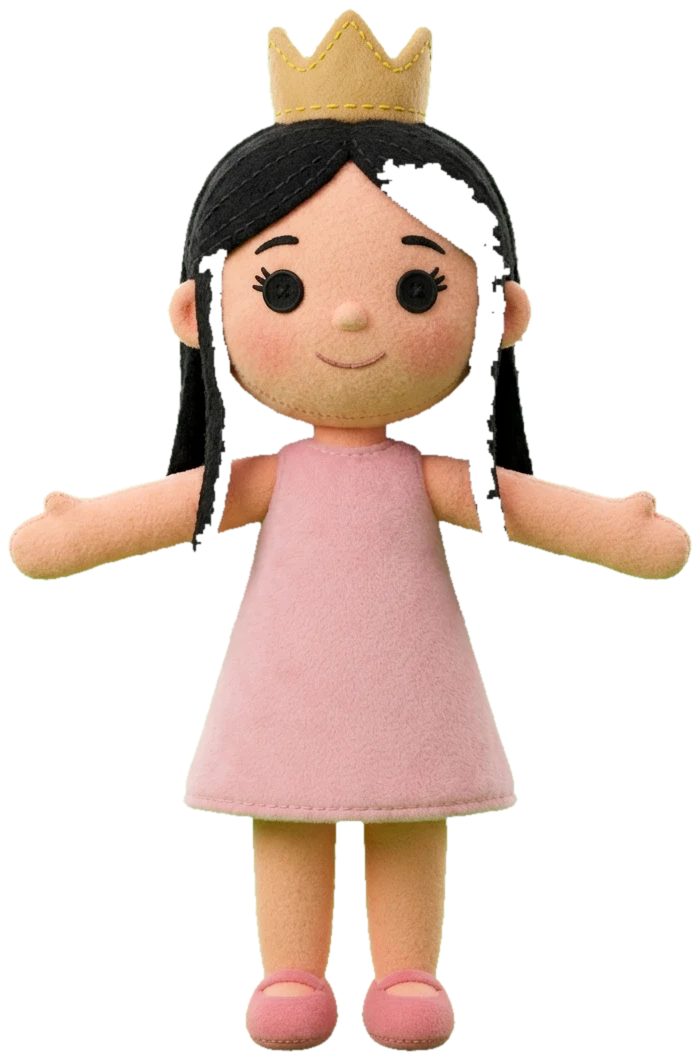
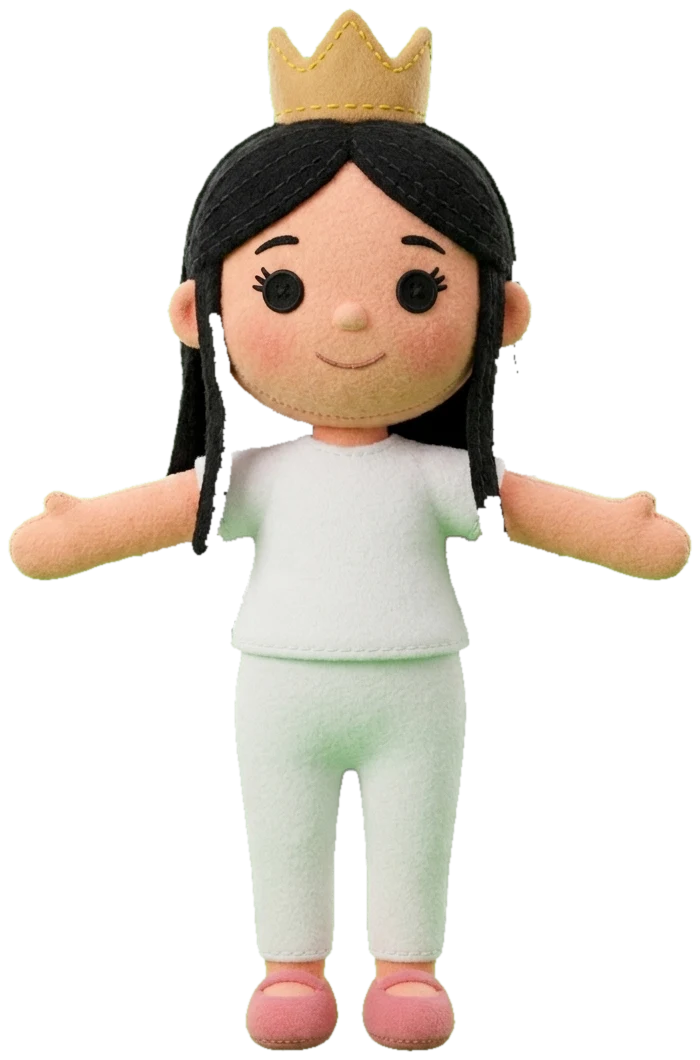
Atelier v11: clean boys' belts (drawn blue, cut by colour); dolls arrive in a white top and leggings

Changed region(s): [[0.27, 0.1557, 0.78, 0.934], [0.27, 0.2179, 0.33, 0.3425], [0.24, 0.3425, 0.27, 0.3736]]

diff --git a/atelier/game.js b/atelier/game.js
@@ -14,7 +14,7 @@
    Tiers: 1 (to 6) felt, whole cm · 2 (7–10) nature-tech, half cm · 3 (11+) nature-tech, mm and π. */
 (function () {
   'use strict';
-  const VERSION = 10;
+  const VERSION = 11;
   const $ = (s, r) => (r || document).querySelector(s), el = (t, c, txt) => { const e = document.createElement(t); if (c) e.className = c; if (txt != null) e.textContent = txt; return e; };
   const NS = 'http://www.w3.org/2000/svg', sv = (t, a) => { const e = document.createElementNS(NS, t); for (const k in a || {}) e.setAttribute(k, a[k]); return e; };
   const wait = ms => new Promise(r => setTimeout(r, ms)), clamp = (v, a, b) => Math.max(a, Math.min(b, v)), pick = a => a[Math.floor(Math.random() * a.length)];

diff --git a/atelier/index.html b/atelier/index.html
@@ -69,6 +69,6 @@ html,body{height:100%} body{margin:0; background:var(--bg); color:var(--ink); fo
   <span class="ver" id="ver"></span>
 </div></div>
 <script src="strings.js?v=11"></script>
-<script src="game.js?v=33"></script>
+<script src="game.js?v=34"></script>
 </body>
 </html>

diff --git a/tools/filmed/atelier/dress/layer.py b/tools/filmed/atelier/dress/layer.py
@@ -4,6 +4,8 @@ from PIL import Image
 from scipy import ndimage
 SRC = '/private/tmp/claude-501/-Users-yonieyal-castle-chess/d9987f28-f2c5-4381-b2fb-abb4d8144d7e/scratchpad/atelier/assets'
 def layer(look, client, garment):
+    import os
+    if os.path.exists(f'{look}_{client}_{garment}Blue.png'): return layer_blue(look, client, garment)
     a = np.asarray(Image.open(f'{SRC}/{look}_{client}.png').convert('RGB')).astype(np.float32) / 255
     b = np.asarray(Image.open(f'{look}_{client}_{garment}.png').convert('RGB').resize((a.shape[1], a.shape[0]), Image.LANCZOS)).astype(np.float32) / 255
     # best small shift of b onto a (the edit can nudge the figure a few pixels)
@@ -32,5 +34,15 @@ def layer(look, client, garment):
     rgba = np.dstack([shade, shade, shade, alpha]); out = Image.fromarray((rgba * 255).astype(np.uint8), 'RGBA')
     ys, xs = np.where(alpha > 0.05); box = (xs.min(), ys.min(), xs.max() + 1, ys.max() + 1)
     return out, box, best[1:], a.shape
+def layer_blue(look, client, garment):   # a garment drawn pure blue: cut by colour (no fur or cloth on any client is that blue), shading = its brightness
+    a = np.asarray(Image.open(f'{SRC}/{look}_{client}.png').convert('RGB')).astype(np.float32) / 255
+    b = np.asarray(Image.open(f'{look}_{client}_{garment}Blue.png').convert('RGB').resize((a.shape[1], a.shape[0]), Image.LANCZOS)).astype(np.float32) / 255
+    blue = (b[..., 2] > 0.3) & (b[..., 2] - np.maximum(b[..., 0], b[..., 1]) > 0.12)
+    m = ndimage.binary_opening(blue, iterations=1); m = ndimage.binary_closing(m, structure=np.ones((3, 9)), iterations=3)
+    lab, n = ndimage.label(m); sizes = ndimage.sum(m, lab, range(1, n + 1)); m = np.isin(lab, [i + 1 for i, s in enumerate(sizes) if s > sizes.max() * 0.05]); m = ndimage.binary_fill_holes(m)
+    alpha = ndimage.gaussian_filter(m.astype(np.float32), 1.0); alpha = np.clip((alpha - 0.15) / 0.7, 0, 1)
+    shade = b.max(2); shade = np.clip(shade / np.percentile(shade[m], 96), 0, 1)
+    rgba = np.dstack([shade, shade, shade, alpha]); out = Image.fromarray((rgba * 255).astype(np.uint8))
+    ys, xs = np.where(alpha > 0.05); return out, (xs.min(), ys.min(), xs.max() + 1, ys.max() + 1), (0, 0), a.shape
 if __name__ == '__main__':
     look, client, garment = sys.argv[1:4]; out, box, shift, shp = layer(look, client, garment); out.save(f'L_{look}_{client}_{garment}.png'); print(look, client, garment, 'box', box, 'shift', shift)

diff --git a/tools/filmed/atelier/dress/edit.py b/tools/filmed/atelier/dress/edit.py
@@ -10,15 +10,17 @@ G = {
  'belt': 'a plain pure-white fabric belt with a small gold buckle, worn snugly round her waist over her clothes',
  'hat': 'a plain pure-white fabric beret hat sitting on top of the head',
  'pants': 'a pair of plain pure-white fabric long trousers, from the waist down to just above the feet, both legs covered, with a neat waistband at the waist, worn like a boy wears trousers (the feet, arms, chest and tail stay uncovered)',
+ 'beltBlue': 'a plain pure-blue (#0000FF) fabric belt with a small buckle made of the same blue fabric, worn snugly round the waist on top of the trousers waistband, the whole belt the same flat bright blue',
  'shirt': 'a plain pure-white fabric short-sleeved shirt with a round neck, covering the chest and tummy down to the waist, worn like a boy wears a T-shirt (the arms below the short sleeves, the legs and the tail stay uncovered; any scarf stays on top)',
 }
 LOOK = {'felt': 'made of the same soft felt and stitching as the character', 'nature': 'made of soft cotton in the same clean 3D animated-film render as the character'}
 def run(look, client, garment):
     out = pathlib.Path(f'{look}_{client}_{garment}.png')
     if out.exists(): return 'cached'
-    img = (SRC / f'{look}_{client}.png').read_bytes()
+    # a *Blue garment is drawn in pure blue on the client already wearing its pants (from this folder), so layer.py can cut it out by colour
+    img = (pathlib.Path(f'{look}_{client}_pants.png') if garment.endswith('Blue') else SRC / f'{look}_{client}.png').read_bytes()
     who = 'character'
-    prompt = (f'Edit this image: dress the {who} in {G[garment]}, {LOOK[look]}. The new garment is pure white with soft shading and folds, no pattern, no colour. '
+    prompt = (f'Edit this image: dress the {who} in {G[garment]}, {LOOK[look]}. The new garment is ' + ('pure bright blue' if garment.endswith('Blue') else 'pure white, no colour') + ' with soft shading and folds, no pattern. '
               'Keep everything else exactly the same: the same character, face, hair, pose, arms, proportions, colours and lighting, the same framing and size in the frame, '
               'and the same completely flat pure green background. Change nothing except adding the garment. No text.')
     client_ = genai.Client()

diff --git a/tools/filmed/atelier/dress/rebase.py b/tools/filmed/atelier/dress/rebase.py
@@ -1,0 +1,16 @@
+# swap a client's base picture (same pose, new base clothes) without redoing its garment layers: the crop box is rebuilt from the
+# ORIGINAL picture and its garment edits exactly as pack3 builds it, then the new picture is keyed and cut on that same box, so every
+# existing g_<client>_<garment>.webp still lands where it did. usage: python3 rebase.py <look> <client> <new.png> <garment,...>
+import sys, json, numpy as np
+from PIL import Image
+import pack3_core as P   # key_rgba, anchors, layer, bbox, SRC, OUT (shared with pack3)
+look, client, newp, gs = sys.argv[1], sys.argv[2], sys.argv[3], sys.argv[4].split(',')
+cl = P.key_rgba(Image.open(f'{P.SRC}/{look}_{client}.png')); box = P.bbox(np.asarray(cl.getchannel('A')))
+for g in gs:
+    lay = P.layer(look, client, g)[0]; bb = P.bbox(np.asarray(lay.getchannel('A')))
+    box = [min(box[0], bb[0]), min(box[1], bb[1]), max(box[2], bb[2]), max(box[3], bb[3])]
+pad = 8; box = [max(0, box[0] - pad), max(0, box[1] - pad), min(cl.width, box[2] + pad), min(cl.height, box[3] + pad)]
+crop = cl.crop(box); k = min(700 / crop.width, 1100 / crop.height, 1.0); size = (round(crop.width * k), round(crop.height * k))
+new = P.key_rgba(Image.open(newp)).crop(box).resize(size, Image.LANCZOS); new.save(f'{P.OUT}/{look}/{client}.webp', 'WEBP', quality=88)
+meta = json.load(open(f'{P.OUT}/{look}/meta.json')); m = {kk: float(v) for kk, v in P.anchors(new).items()}; m['g'] = meta[client]['g']; meta[client] = m
+json.dump(meta, open(f'{P.OUT}/{look}/meta.json', 'w')); print(look, client, 'rebased on', box, size)

diff --git a/tools/filmed/atelier/dress/pack3.py b/tools/filmed/atelier/dress/pack3.py
@@ -1,16 +1,8 @@
 # v3 pack: client (keyed) + its garment layers on one shared crop, so a layer drawn over the client lands exactly; garment boxes go to meta
 import sys, json, numpy as np, subprocess, os
 from PIL import Image
-sys.path.insert(0, '/private/tmp/claude-501/-Users-yonieyal-castle-chess/d9987f28-f2c5-4381-b2fb-abb4d8144d7e/scratchpad/atelier/assets')
-import importlib.util
-spec = importlib.util.spec_from_file_location('pk', '/private/tmp/claude-501/-Users-yonieyal-castle-chess/d9987f28-f2c5-4381-b2fb-abb4d8144d7e/scratchpad/atelier/assets/pack.py')
-src = open(spec.origin).read().split("import sys\nfor look in")[0]; ns = {}; exec(src, ns); key_rgba = ns['key_rgba']
-from layer import layer
-SRC = '/private/tmp/claude-501/-Users-yonieyal-castle-chess/d9987f28-f2c5-4381-b2fb-abb4d8144d7e/scratchpad/atelier/assets'
-OUT = '/Users/yonieyal/kingdom-quest/atelier/assets'
+from pack3_core import key_rgba, layer, SRC, OUT, bbox, ns
 GS = {'felt': ['skirt', 'belt'], 'nature': ['circleSkirt', 'belt', 'hat']}
-def bbox(a, thr=20):
-    ys, xs = np.where(a > thr); return [xs.min(), ys.min(), xs.max() + 1, ys.max() + 1]
 # usage: pack3.py                         every client, then the props
 #        pack3.py <look> <client,...> <garment,...>   only those clients (e.g. felt fox,teddy skirt,belt,pants,shirt), no props
 ONLY = sys.argv[1:4] if len(sys.argv) >= 4 else None

diff --git a/tools/filmed/atelier/dress/pack3_core.py b/tools/filmed/atelier/dress/pack3_core.py
@@ -1,0 +1,9 @@
+# shared by pack3.py and rebase.py: the chroma key and body anchors (from ../assets/pack.py), the garment layer, the paths
+import os, numpy as np
+HERE = os.path.dirname(os.path.abspath(__file__))
+src = open(os.path.join(HERE, '..', 'assets', 'pack.py')).read().split("import sys\nfor look in")[0]; ns = {}; exec(src, ns); key_rgba = ns['key_rgba']; anchors = ns['anchors']
+from layer import layer
+SRC = '/private/tmp/claude-501/-Users-yonieyal-castle-chess/d9987f28-f2c5-4381-b2fb-abb4d8144d7e/scratchpad/atelier/assets'
+OUT = '/Users/yonieyal/kingdom-quest/atelier/assets'
+def bbox(a, thr=20):
+    ys, xs = np.where(a > thr); return [xs.min(), ys.min(), xs.max() + 1, ys.max() + 1]

diff --git a/DECISIONS.md b/DECISIONS.md
@@ -19,6 +19,8 @@ Format: `- YYYY-MM-DD · topic · "his words" · what it means for the code`
 - 2026-09-17 · Order · "I need you to solve one by one do not try to solve all of them combined start with the home page"
 
 ## Log (newest first)
+- 2026-10-19 · The Atelier v11 on staging · "belt is looking bad" (a screenshot: the fox's belt in torn pieces) · cause: a white belt drawn over the fox's white chest fur barely changes the picture, so the cut-out lost most of it; the felt teddy's had come out as a tied sash · the boys' belts are now drawn in pure blue on the client already in its pants, cut out by colour and dyed at run time (felt fox, felt teddy, nature-tech fox; the nature-tech bear's was clean); the girl and the princess (both looks) arrive in a plain white top and white leggings, on the same frame their skirt and belt were cut for. Played by the test driver: girl and princess at 5 (desktop, phone), 9 and 12; fox at 5 (desktop) and 9; teddy at 5 (phone). Spend: 7 Gemini edits ≈ $0.28 (round total ≈ $0.76 of the $1 ceiling).
+- 2026-10-19 · The Atelier, the dolls' base clothes · asked whether the girl and the princess should arrive in something plainer than their dresses: "Yes: the girl and the princess arrive in a plain white top and leggings, so the skirt and belt are the new things." · both dolls, both looks, arrive in a plain white top and white leggings; the skirt and the belt they order go over that.
 - 2026-10-19 · The Atelier v10 on staging · every client stands centred on top of the round stand (felt: on the cushion, a little smaller so the head clears the chips; nature-tech: on the platform); the nature-tech bear arrives bare (a new picture without its vest, harness, boots and belt) and gets new pants, shirt and belt layers. Played by the test driver: bear age 9, teddy age 5 at phone size, girl age 5 desktop; all 8 clients checked on arrival. Spend: 4 Gemini edits ≈ $0.16 (round total ≈ $0.48 of the $1 ceiling).
 - 2026-10-19 · The Atelier v9 verdict · "You're showing me a teddy bear? In the studio? He's not in the middle. Of the circle, first of all. And secondly, he's already dressed. How does that make sense?" · shown two placements as a picture, picked "A: on the cushion" (on the round cushion, centred); on what he saw: "Clothes on arrival" · every client stands centred on the shop's round stand (the felt cushion, the nature-tech platform); a client arrives undressed: the nature-tech bear's own vest, harness, boots and belt are removed from its picture.
 - 2026-10-19 · The Atelier v9 on staging · no zoom on the cloth table at any age (reading, chalk, compass); a "מה מדדתם / What you measured" note on the right-hand side lists every number the kid measured for this client (leg, chest, waist, round the waist, radius) and stays until the client leaves; the notice bubble keeps clear of it. Played by the test driver: fox age 5 Hebrew desktop and phone size, girl age 9 English.
